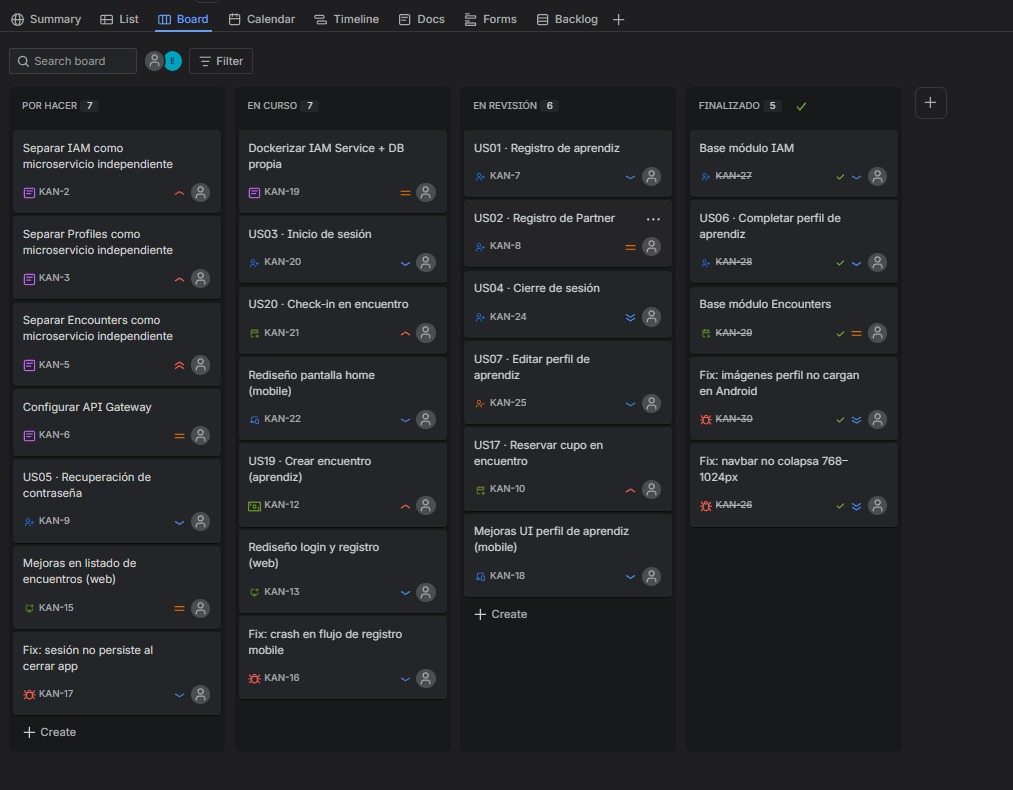
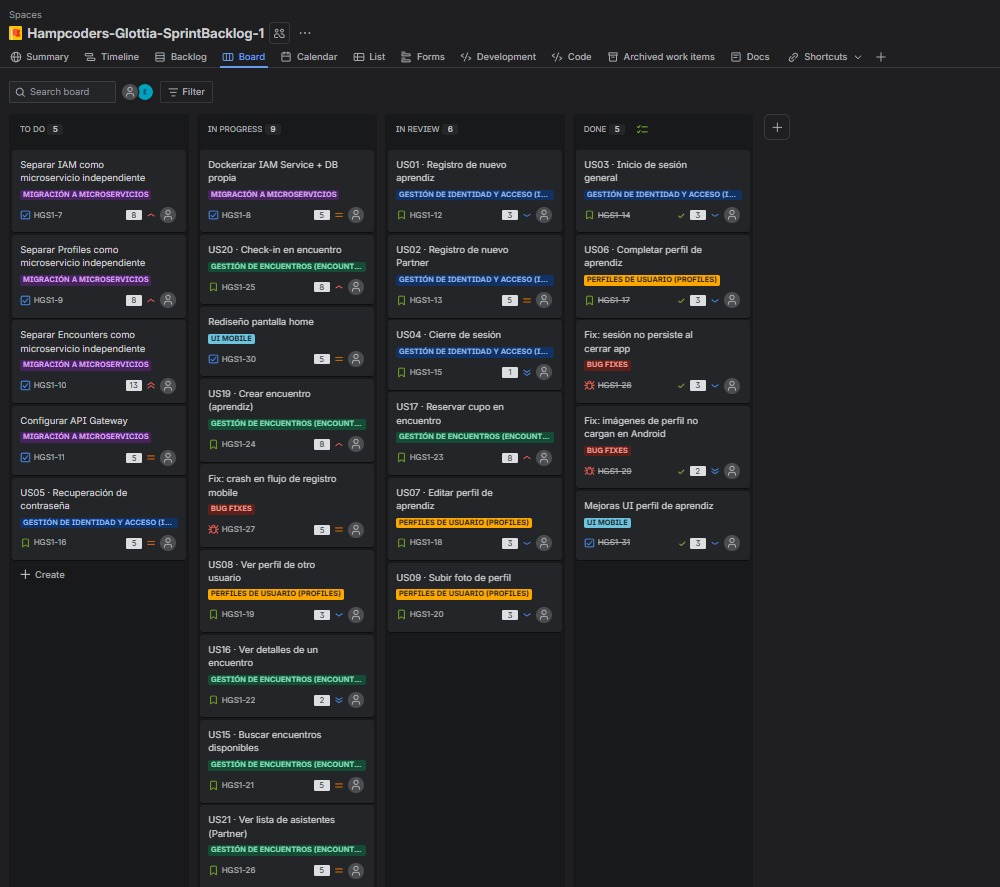
Sprint 1 Kanban Board

diff --git a/report/50-cap5-product-implementation-validation-&-deployment.md b/report/50-cap5-product-implementation-validation-&-deployment.md
@@ -41,3 +41,8 @@ El Sprint 1 tiene una duración de 2 semanas y abarca tres frentes de trabajo: l
 #### 5.2.1.6 Software Deployment Evidence for Sprint Review
 #### 5.2.1.7 Team Collaboration Insights during Sprint
 #### 5.2.1.8 Kanban Board --> TP1
+
+\
+![Sprint 1 Kanban Board](assets/img/cap5/Glottia-Sprint1-KanbanBoard.jpeg)
+\
+[Ver Sprint 1 Kanban Board en Jira](https://fundamentos.atlassian.net/jira/software/projects/HGS1/boards/34?atlOrigin=eyJpIjoiMDFiMTg2M2NkNTA3NDJjZDllZTQ3ZTlhNDU5MmNjMjUiLCJwIjoiaiJ9)